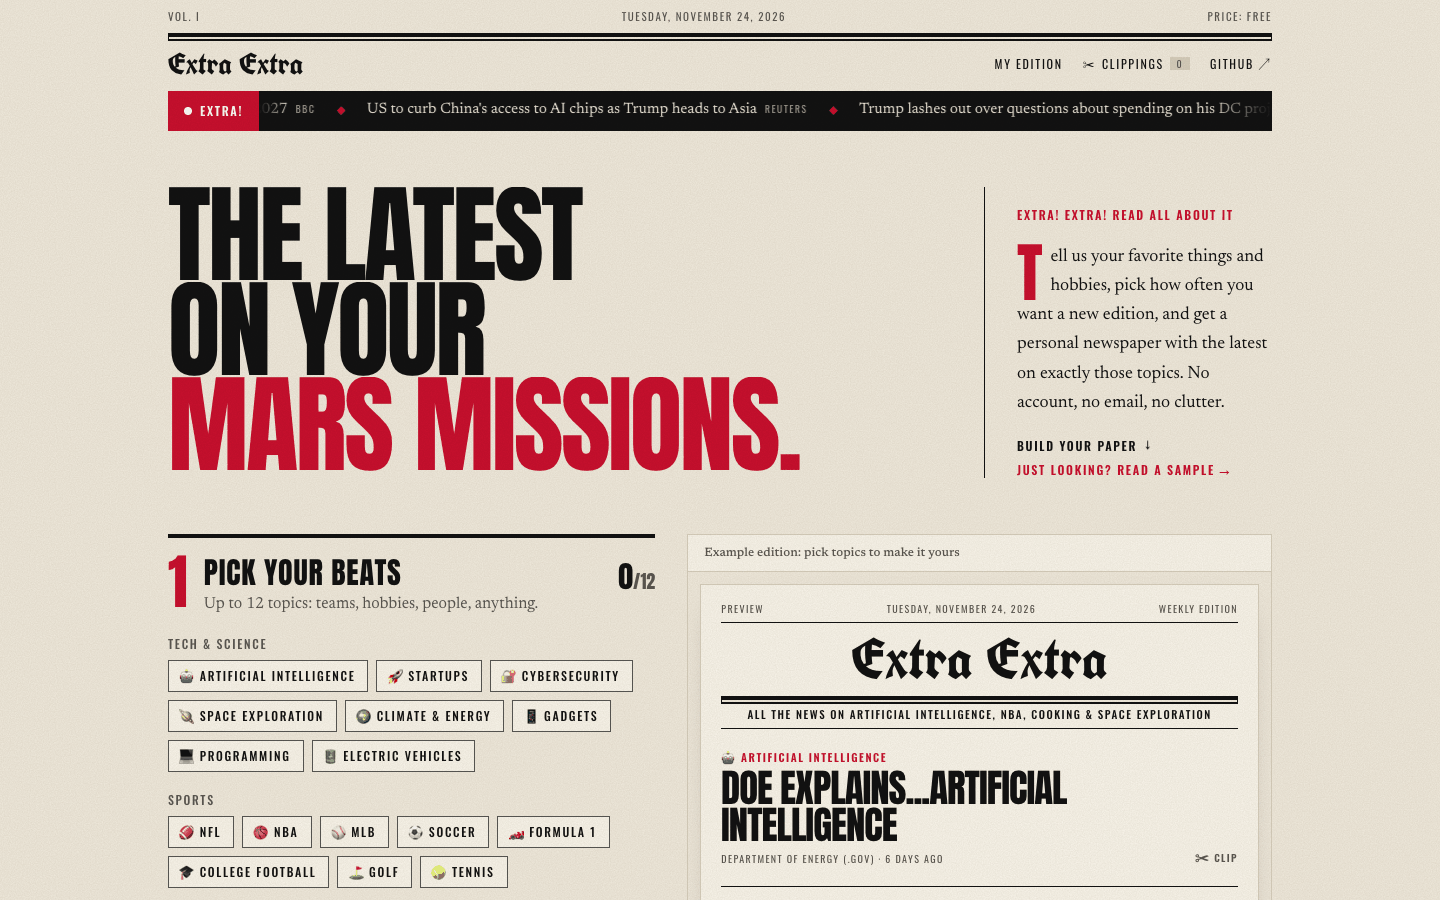
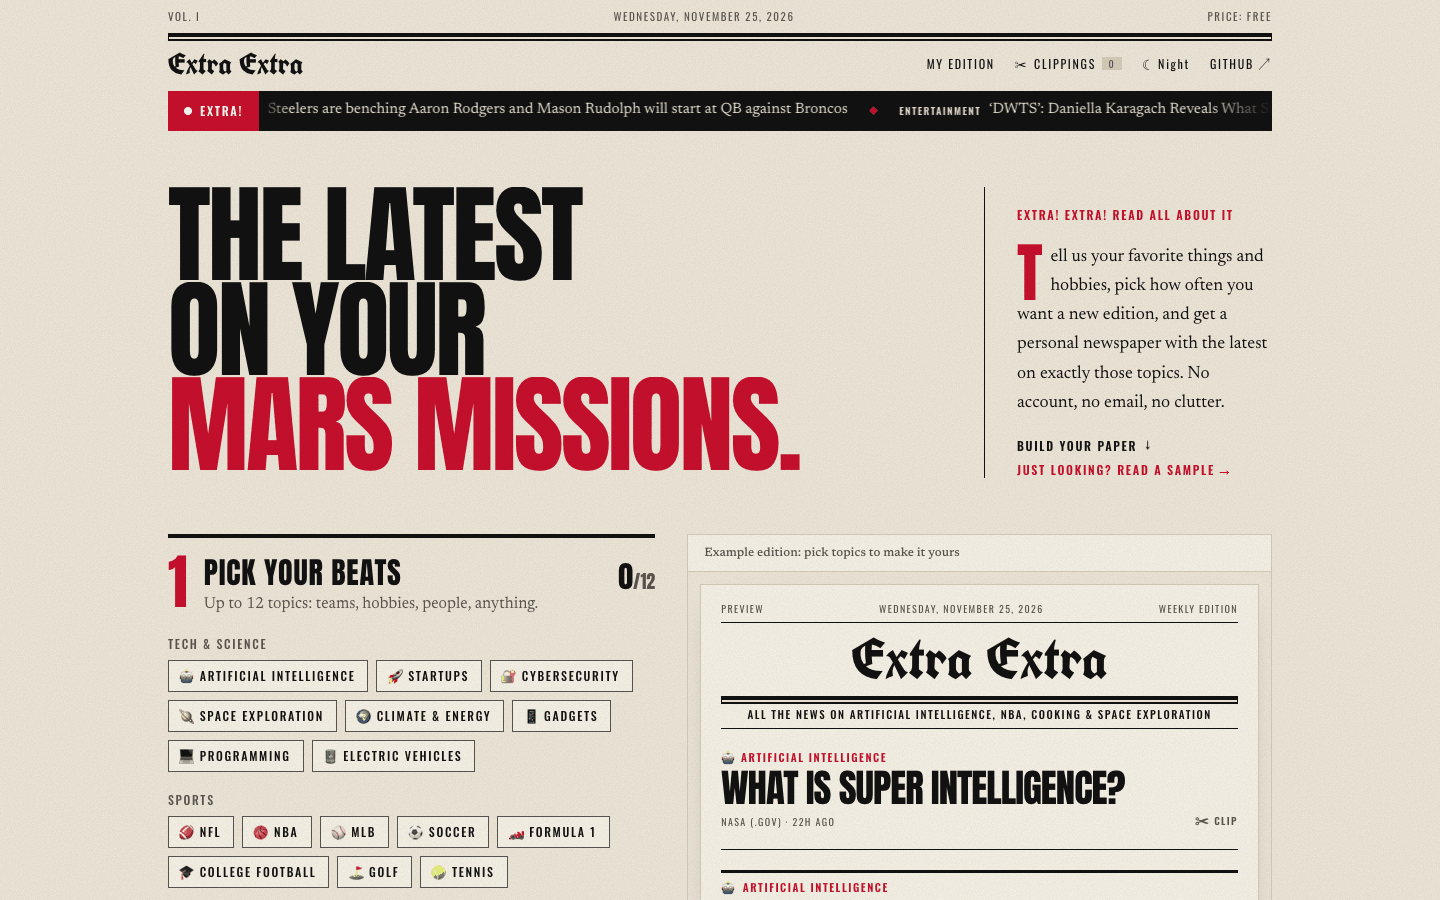
Refresh README media and docs for the new features
Retake the screenshots and demo GIF with the friendlier ticker (no more
politics-heavy front page), add a night-edition shot and a front page
with the weather ear, and document night mode, printing, weather and
offline use, plus the updated motion table and test counts.

diff --git a/README.md b/README.md
@@ -16,6 +16,10 @@ Pick your interests from 40+ topic chips, or type in anything else: a team, a pe
 - **No account, no email, no server.** Your picks, past editions and clippings live in your browser.
 - **Shareable papers.** Every paper is a link. Anyone who opens it gets the same paper with today's news.
 - **Clippings.** Cut stories out of any edition into a scrapbook.
+- **Night edition.** A dark theme printed in negative. It follows your system setting until you pick one.
+- **Print it.** Printing, or saving as PDF, gives you a real three-column newspaper page.
+- **Local weather.** An opt-in weather "ear" beside the nameplate, from Open-Meteo.
+- **Works offline.** Installable as an app. Today's edition and your scrapbook open without a connection.
 - **Calendar reminders.** One click downloads a recurring `.ics` reminder that matches your frequency.
 - **Costs $0 to run.** It's a static site, and the headlines are refreshed by a scheduled GitHub Action.
 
@@ -23,9 +27,11 @@ Pick your interests from 40+ topic chips, or type in anything else: a team, a pe
 | --- | --- |
 | ![A personal front page with a banner lead story, newspaper columns and a countdown to the next edition](docs/images/front-page.png) | ![Clipped stories pinned up as taped cut-outs with pinking-shear edges](docs/images/scrapbook.png) |
 
-| The builder | On a phone |
+| The builder | Night edition |
 | --- | --- |
-| ![The kinetic headline "The latest on your Mars missions." above the topic builder and live preview](docs/images/home.png) | <img src="docs/images/phone.png" alt="The home page on a phone" width="260"> |
+| ![The kinetic headline "The latest on your Mars missions." above the topic builder and live preview](docs/images/home.png) | ![The same front page printed in negative: light ink on dark paper](docs/images/night.png) |
+
+<p align="center"><img src="docs/images/phone.png" alt="The home page on a phone" width="300"></p>
 
 ## How it works
 
@@ -83,13 +89,15 @@ The motion is part of the design, and every piece of it respects `prefers-reduce
 | --- | --- | --- |
 | First load | The nameplate stamps in, the double rule prints across, and the banner headline rises line by line. | CSS keyframes |
 | Kinetic headline | "The latest on your ___" flips through real interests. Clicking the word adds that topic. | React + CSS 3D flips |
-| Live ticker | Today's top stories loop in a wire-style band that pauses on hover. | CSS marquee over `ticker.json` |
+| Live ticker | A wire-style band of Tech, Sports, Entertainment and Science headlines, or your own beats once you have a paper. It pauses on hover. | CSS marquee |
 | Picking a topic | Its metal-type chip flies on an arc into the live preview, which re-typesets: the lead slams in and stories print in reading order. | Web Animations API (`src/lib/fly.ts`) |
 | Frequency | Rubber stamps thunk down in red ink when selected. | CSS |
 | Print my edition | A printing press: rollers spin, the press shudders, your front page feeds out, and a PRINTED! stamp lands. You can skip it. | `PressOverlay.tsx` |
 | Changing pages | Pages turn like a newspaper, from the right going forward and from the left going back, with the masthead anchored. | React `<ViewTransition>` |
 | Scrolling | A compact masthead slides in, a giant outlined banner scrubs sideways, and sections rise into view. | CSS scroll timelines |
 | Reader | The edition unfolds from the top fold. A countdown "ear" shows the next edition, and past editions sit in "The morgue". | CSS |
+| Clipping a story | A red dashed cut line draws around it, and a scrap of newsprint flies to the Clippings counter. | Web Animations API |
+| Night edition | The new edition wipes across the page in a circle that grows from the toggle. | View Transitions |
 
 ## Run it locally
 
@@ -103,13 +111,13 @@ Run `npm run fetch-news` any time to refresh the local headlines.
 ## Tests
 
 ```bash
-npm test                                  # 26 unit tests (Vitest)
+npm test                                  # 31 unit tests (Vitest)
 npm run fixtures && npm run build         # build against deterministic sample headlines
-npm run test:e2e                          # 20 browser tests (Playwright, desktop + phone)
+npm run test:e2e                          # 36 browser tests (Playwright, desktop + phone)
 ```
 
-- **Unit tests** cover the logic that's easy to get subtly wrong: edition numbering (including month-end clamping), look-back cutoffs and cross-topic de-duplication, free-text matching priority, share-link encoding, topic aliases, and the clippings store.
-- **Browser tests** run the real flows on desktop and phone sizes: building and printing a paper, the kinetic headline, sample and shared papers, clipping to the scrapbook, and reduced motion. An [axe](https://github.com/dequelabs/axe-core) scan of every page fails on any serious WCAG A/AA violation.
+- **Unit tests** cover the logic that's easy to get subtly wrong: edition numbering (including month-end clamping), look-back cutoffs and cross-topic de-duplication, free-text matching priority, share-link encoding, topic aliases, the clippings store, the ticker mix, and weather codes, units and coordinate rounding.
+- **Browser tests** run the real flows on desktop and phone sizes: building and printing a paper, the kinetic headline, sample and shared papers, clipping to the scrapbook, the ticker, the night edition, print output, weather (with a mocked location and forecast), reading offline, and reduced motion. An [axe](https://github.com/dequelabs/axe-core) scan of every page, in both day and night editions, fails on any serious WCAG A/AA violation.
 - **CI** runs lint, typecheck, unit tests and browser tests on every push and pull request. The deploy happens only if they pass. Scheduled headline refreshes skip the tests, because the code hasn't changed.
 
 `npm run fixtures` overwrites `public/data` with sample headlines. Run `npm run fetch-news` afterward to get real headlines back.
@@ -118,7 +126,7 @@ npm run test:e2e                          # 20 browser tests (Playwright, deskto
 
 1. Push to `main`.
 2. In the repo, go to **Settings → Pages → Build and deployment** and set the source to **GitHub Actions**.
-3. The **Refresh news & deploy** workflow builds and publishes the site at `https://<user>.github.io/personal-newsletter/`. It then re-runs every 6 hours to refresh the headlines. You can also run it by hand from the **Actions** tab.
+3. The **Test & deploy** workflow builds and publishes the site at `https://<user>.github.io/personal-newsletter/`. It then re-runs every 6 hours to refresh the headlines. You can also run it by hand from the **Actions** tab.
 
 You don't need any accounts, API keys, or secrets.
 
